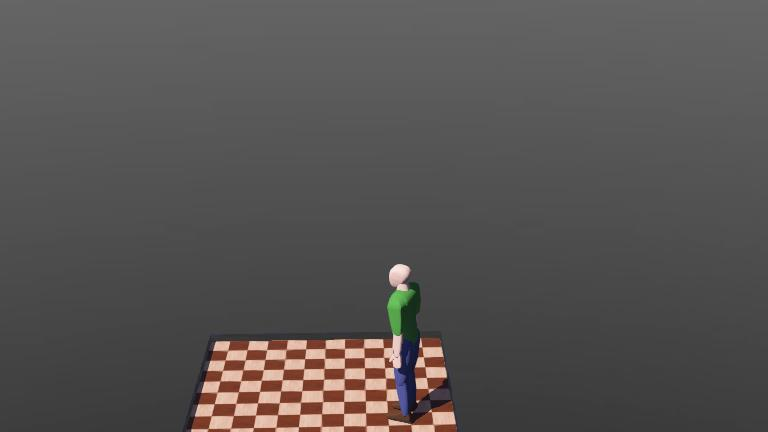
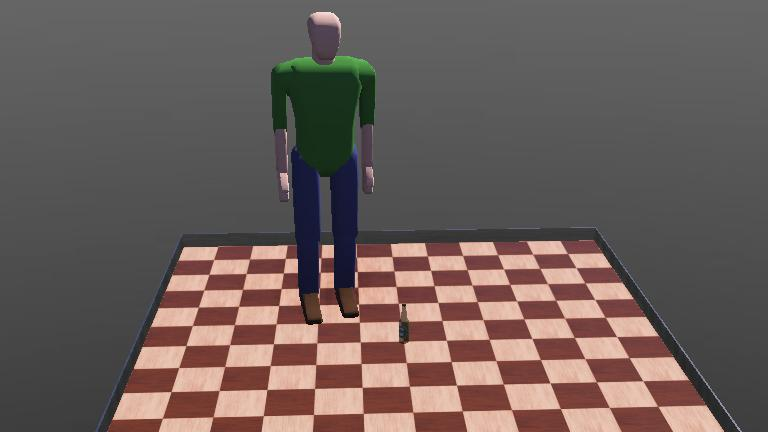
PARCIAL JOSUE RODRIGUEZ

diff --git a/Examples/ejemplo1/controllers/my_controller/my_controller.py b/Examples/ejemplo1/controllers/my_controller/my_controller.py
@@ -1,18 +1,28 @@
 from controller import Supervisor, Keyboard
-from sympy import Matrix, cos, sin, pi
+from sympy import Matrix, cos, sin
 import math
 
+# --- Inicialización ---
 supervisor = Supervisor()
 paso_tiempo = int(supervisor.getBasicTimeStep())
 
-# Obtener el nodo del humanoide
+# Obtener los nodos del humanoide y de la botella
 nodo_peaton = supervisor.getFromDef("pedestrian1")
-if nodo_peaton is None:
-    print("ERROR: No se encontró el nodo con DEF del humanoide")
+nodo_botella = supervisor.getFromDef("beer_bottle")
+
+if nodo_peaton is None or nodo_botella is None:
+    print("ERROR: No se encontraron los nodos (pedestrian1 o beer bottle)")
 
 # Parámetros de movimiento
 TAMANO_PASO = 0.05          # metros por paso
 PASO_ANGULO = math.pi / 36  # 5 grados por paso
+
+# --- Offset de la botella respecto a la mano/peatón ---
+# Define aquí qué tan lejos de la base del humanoide está la mano
+# (Ajusta estos valores según la posición inicial que le des en Webots)
+OFFSET_X = 0
+OFFSET_Y = -0.25  # Aproximadamente a un lado del cuerpo
+OFFSET_Z = -0.5   # Altura de la mano
 
 # Activar teclado
 teclado = supervisor.getKeyboard()
@@ -22,14 +32,6 @@ teclado.enable(paso_tiempo)
 # Desplazamiento en X o Y del sistema de referencia del humanoide
 # ---------------------------------------------------------------
 def trasladar(nodo, dx_local, dy_local):
-    """
-    P_nueva = P_vieja + R_z(θ) * d_local
-
-    R_z(θ) = | cos θ  -sin θ  0 |   d_local = | dx_local |
-              | sin θ   cos θ  0 |              | dy_local |
-              |   0       0    1 |              |    0     |
-    """
-    # Posición actual como vector columna
     campo_traslacion = nodo.getField("translation")
     pos = campo_traslacion.getSFVec3f()
     P_vieja = Matrix([pos[0], pos[1], pos[2]])
@@ -38,48 +40,82 @@ def trasladar(nodo, dx_local, dy_local):
     campo_rotacion = nodo.getField("rotation")
     _, _, _, angulo = campo_rotacion.getSFRotation()
 
-    # Matriz de rotación R_z(θ)
     R_z = Matrix([
         [cos(angulo), -sin(angulo), 0],
         [sin(angulo),  cos(angulo), 0],
         [          0,            0, 1]
     ])
 
-    # Vector de desplazamiento en sistema local
     d_local = Matrix([dx_local, dy_local, 0])
-
-    # Rotación del vector local al sistema mundial
     d_mundial = R_z * d_local
-
-    # Suma vectorial
     P_nueva = P_vieja + d_mundial
 
-    # Aplicar al nodo (evaluar a float antes de enviar a Webots)
     campo_traslacion.setSFVec3f([
         float(P_nueva[0]),
         float(P_nueva[1]),
         float(P_nueva[2])
     ])
 
-
 # ---------------------------------------------------------------
 # Rotación alrededor de Z (horario / antihorario)
 # ---------------------------------------------------------------
 def rotar_z(nodo, delta_angulo):
-    """
-    R_nueva = R_z(Δθ) * R_z(θ) = R_z(θ + Δθ)
-    """
-
-    # Formato axis-angle [0, 0, 1, θ]
+    campo_rotacion = nodo.getField("rotation")
+    _, _, _, angulo = campo_rotacion.getSFRotation()
     campo_rotacion.setSFRotation([0, 0, 1, angulo + delta_angulo])
 
+# ---------------------------------------------------------------
+# Actualizar la posición y rotación de la botella en la mano
+# ---------------------------------------------------------------
+def actualizar_posicion_botella(peaton_nodo, botella_nodo):
+    # Obtener posición y ángulo del humanoide
+    campo_traslacion = peaton_nodo.getField("translation")
+    pos = campo_traslacion.getSFVec3f()
+    
+    campo_rotacion = peaton_nodo.getField("rotation")
+    _, _, _, angulo = campo_rotacion.getSFRotation()
 
+    # Matriz de rotación del humanoide (en torno al eje Z)
+    R_z = Matrix([
+        [cos(angulo), -sin(angulo), 0],
+        [sin(angulo),  cos(angulo), 0],
+        [          0,            0, 1]
+    ])
+
+    # 1. Posición de la botella
+    offset_local = Matrix([OFFSET_X, OFFSET_Y, OFFSET_Z])
+    offset_mundial = R_z * offset_local
+
+    pos_botella_x = pos[0] + float(offset_mundial[0])
+    pos_botella_y = pos[1] + float(offset_mundial[1])
+    pos_botella_z = pos[2] + float(offset_mundial[2])
+
+    campo_botella_traslacion = botella_nodo.getField("translation")
+    campo_botella_traslacion.setSFVec3f([pos_botella_x, pos_botella_y, pos_botella_z])
+
+    # 2. Rotación de la botella (orientación del humanoide + ángulo de inclinación)
+    # Transformamos el vector del eje Y local al espacio mundial
+    eje_local = Matrix([0, 1, 0])
+    eje_mundial = R_z * eje_local
+
+    # Ángulo de inclinación horizontal en radianes
+    angulo_inclinacion = 1.571  # 90 grados
+
+    # Aplicamos la nueva orientación al nodo
+    campo_botella_rotacion = botella_nodo.getField("rotation")
+    campo_botella_rotacion.setSFRotation([
+        float(eje_mundial[0]), 
+        float(eje_mundial[1]), 
+        float(eje_mundial[2]), 
+        angulo_inclinacion
+    ])
+    
 # ---------------------------------------------------------------
 # Instrucciones en consola
 # ---------------------------------------------------------------
 print("=== Control de teclado ===")
-print("↑ / ↓  → Mover adelante / atrás    (eje X local)")
-print("← / →  → Mover izquierda / derecha (eje Y local)")
+print("↑ / ↓  → Mover adelante / atrás     (eje X local)")
+print("← / →  → Mover izquierda / derecha  (eje Y local)")
 print("Q / E  → Rotar antihorario / horario (alrededor de Z)")
 print("==========================")
 
@@ -88,31 +124,37 @@ print("==========================")
 # ---------------------------------------------------------------
 while supervisor.step(paso_tiempo) != -1:
 
+    # Mantener siempre la botella en la mano antes de verificar el teclado
+    if nodo_peaton is not None and nodo_botella is not None:
+        actualizar_posicion_botella(nodo_peaton, nodo_botella)
+
     tecla = teclado.getKey()
 
     if nodo_peaton is not None and tecla != -1:
 
-        # --- Traslación en eje X del humanoide (adelante / atrás) ---
+        # --- Traslación en eje X ---
         if tecla == Keyboard.UP:
-            print("Adelante")
+            print("Adelante", end='\r')
             trasladar(nodo_peaton, TAMANO_PASO, 0.0)
 
         elif tecla == Keyboard.DOWN:
-            print("Atras")
+            print("Atras", end='\r')
             trasladar(nodo_peaton, -TAMANO_PASO, 0.0)
 
-        # --- Traslación en eje Y del humanoide (izquierda / derecha) ---
+        # --- Traslación en eje Y ---
         elif tecla == Keyboard.LEFT:
-            print("Izquierda")
+            print("Izquierda", end='\r')
             trasladar(nodo_peaton, 0.0, TAMANO_PASO)
 
         elif tecla == Keyboard.RIGHT:
-            print("Derecha")
+            print("Derecha", end='\r')
             trasladar(nodo_peaton, 0.0, -TAMANO_PASO)
 
         # --- Rotación alrededor de Z ---
         elif tecla == ord('Q'):
-            rotar_z(nodo_peaton, PASO_ANGULO)   # Antihorario
+            print("Rotar Antihorario", end='\r')
+            rotar_z(nodo_peaton, PASO_ANGULO)
 
         elif tecla == ord('E'):
-            rotar_z(nodo_peaton, -PASO_ANGULO)  # Horario
+            print("Rotar Horario", end='\r')
+            rotar_z(nodo_peaton, -PASO_ANGULO)